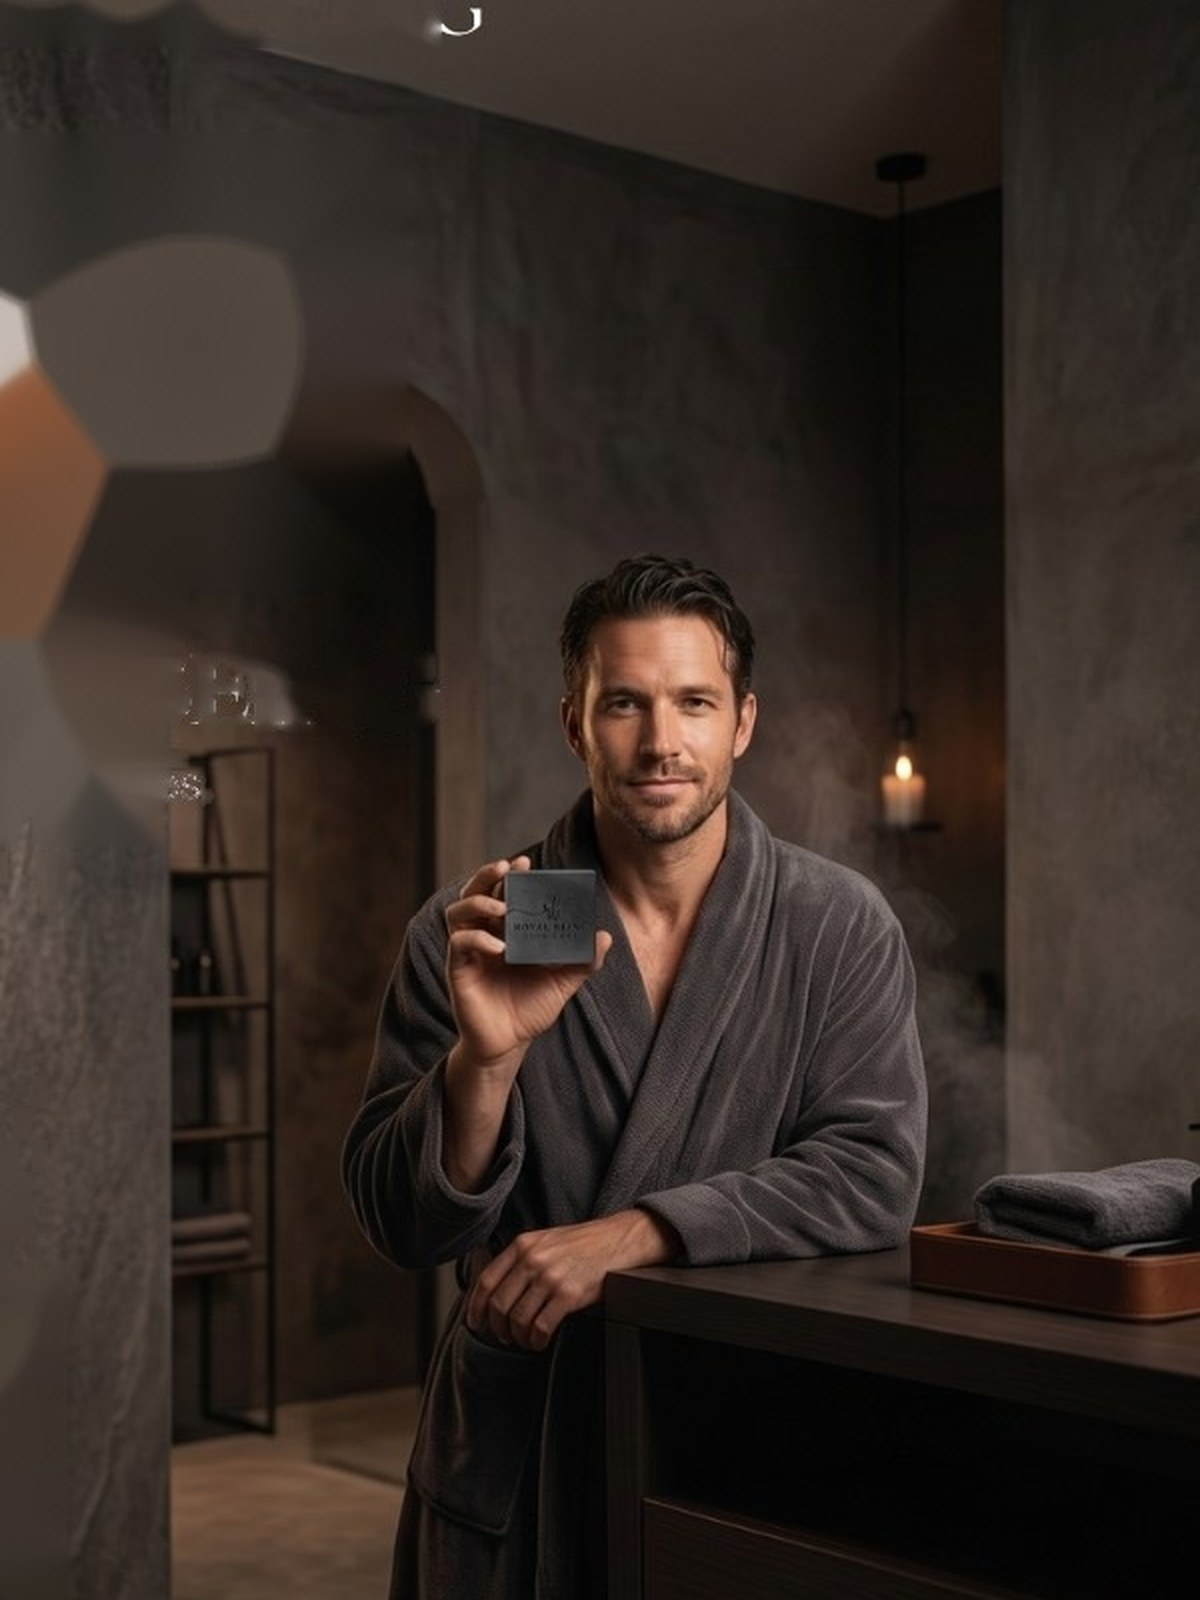
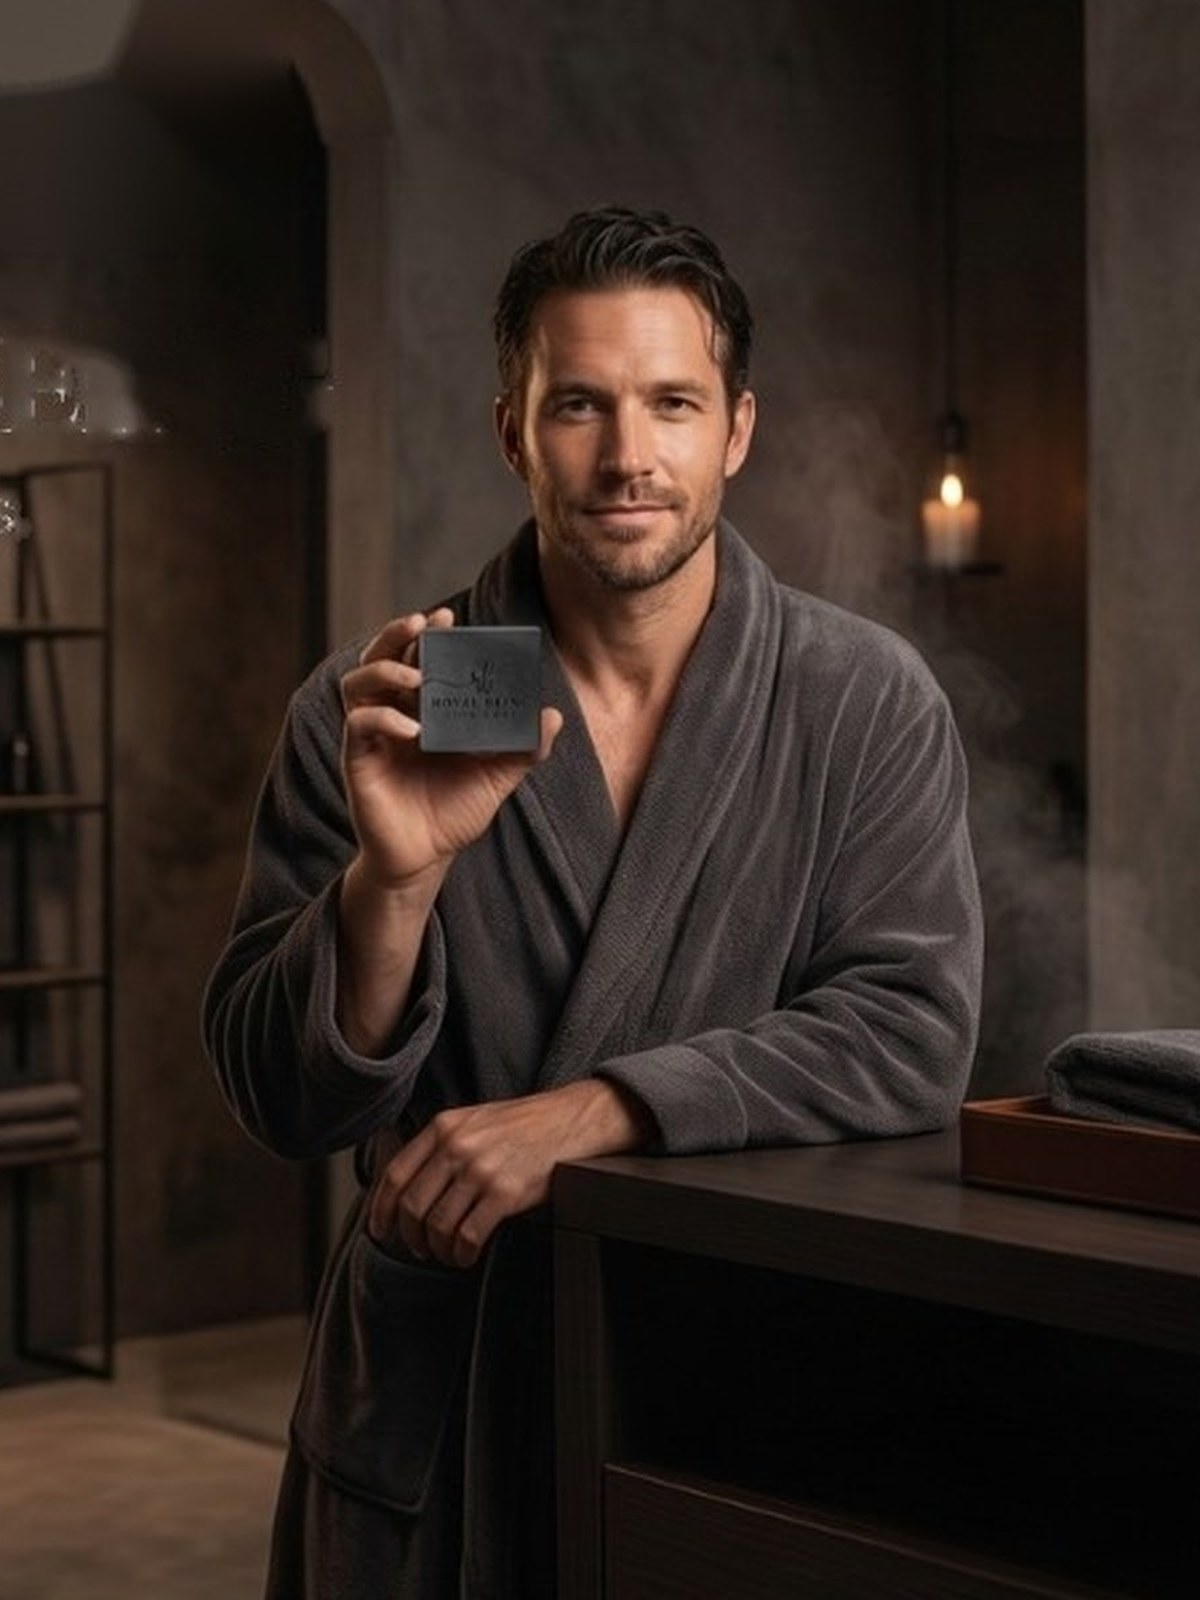
Give The Ritual of Being equal columns and a taller, tighter portrait.
Crop empty space above the ambassador so the man and soap lead the frame, and let the photo share width with the feature copy.

diff --git a/assets/rb-main.css b/assets/rb-main.css
@@ -2034,7 +2034,7 @@ body.grev-lock{overflow:hidden}
 }
 .robeing-body{
   display:grid;
-  grid-template-columns:minmax(200px,.55fr) minmax(280px,1.2fr);
+  grid-template-columns:minmax(0,1fr) minmax(0,1fr);
   gap:clamp(32px,4.2vw,56px);
   align-items:start;
 }
@@ -2042,8 +2042,8 @@ body.grev-lock{overflow:hidden}
   display:flex;
   flex-direction:column;
   gap:36px;
-  max-width:360px;
   width:100%;
+  max-width:none;
 }
 .robeing-media{
   border-radius:var(--radius-lg);
@@ -2162,16 +2162,17 @@ body.grev-lock{overflow:hidden}
   .robeing-visual{display:contents}
   .robeing-media{
     order:1;
-    aspect-ratio:4/5;
-    max-width:360px;
-    max-height:400px;
+    aspect-ratio:3/4;
+    max-width:none;
+    max-height:none;
     width:100%;
     margin-inline:auto;
   }
   .robeing-rows{order:2}
   .robeing-actions{
     order:3;
-    max-width:420px;
+    max-width:none;
+    width:100%;
     margin-inline:auto;
   }
   .robeing-rows{display:flex;flex-direction:column;gap:12px;padding-top:0}
